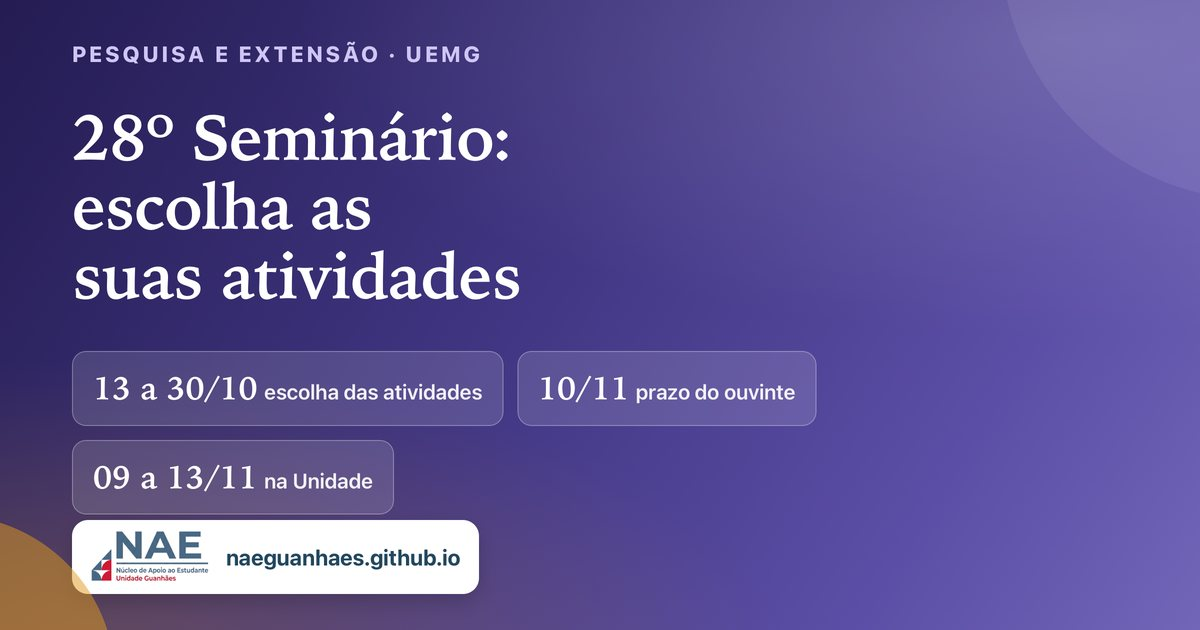
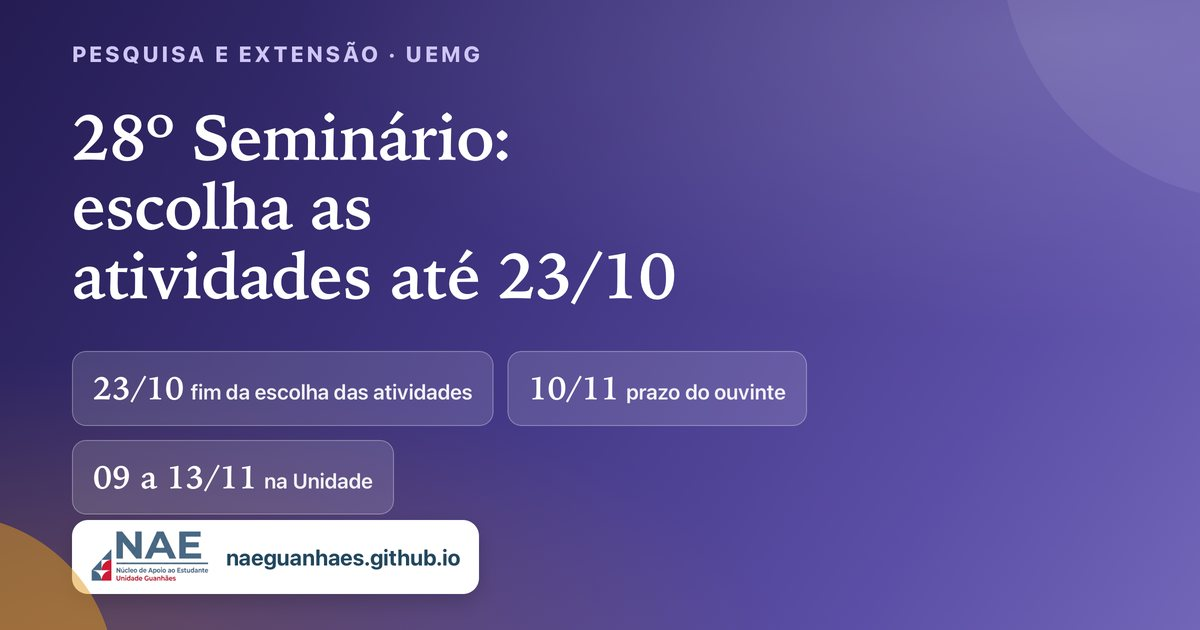
Seminário: escolha das atividades só até 23/10, pelo formulário de Guanhães; virada automática no dia 24

Changed region(s): [[0.0617, 0.3921, 0.5858, 0.4825], [0.0617, 0.5429, 0.6783, 0.6937]]

diff --git a/seminario.html b/seminario.html
@@ -4,15 +4,15 @@
 <meta charset="utf-8">
 <meta name="viewport" content="width=device-width, initial-scale=1">
 <title>28º Seminário de Pesquisa e Extensão · prazos | NAE Guanhães</title>
-<meta name="description" content="28º Seminário de Pesquisa e Extensão da UEMG, na Unidade Guanhães, de 09 a 13 de novembro de 2026. Escolha das atividades de 13 a 30 de outubro e inscrição como ouvinte até 10 de novembro.">
-<meta name="nae:revisar-em" content="2026-10-31 2026-11-11 2026-11-14">
+<meta name="description" content="28º Seminário de Pesquisa e Extensão da UEMG, na Unidade Guanhães, de 09 a 13 de novembro de 2026: prazos, inscrição como ouvinte, escolha das atividades e modelos de apresentação.">
+<meta name="nae:revisar-em" content="2026-11-11 2026-11-14">
 <meta property="og:type" content="website">
 <meta property="og:site_name" content="NAE Guanhães · Núcleo de Apoio ao Estudante">
 <meta property="og:locale" content="pt_BR">
 <meta property="og:title" content="28º Seminário de Pesquisa e Extensão · prazos | NAE Guanhães">
-<meta property="og:description" content="28º Seminário de Pesquisa e Extensão da UEMG, na Unidade Guanhães, de 09 a 13 de novembro de 2026. Escolha das atividades de 13 a 30 de outubro e inscrição como ouvinte até 10 de novembro.">
+<meta property="og:description" content="28º Seminário de Pesquisa e Extensão da UEMG, na Unidade Guanhães, de 09 a 13 de novembro de 2026: prazos, inscrição como ouvinte, escolha das atividades e modelos de apresentação.">
 <meta property="og:url" content="https://naeguanhaes.github.io/seminario.html">
-<meta property="og:image" content="https://naeguanhaes.github.io/assets/og/seminario.jpg">
+<meta property="og:image" content="https://naeguanhaes.github.io/assets/og/seminario.jpg?v=2">
 <meta property="og:image:width" content="1200">
 <meta property="og:image:height" content="630">
 <meta name="twitter:card" content="summary_large_image">
@@ -123,13 +123,15 @@ try{var f=localStorage.getItem("nae:fonte");if(f&&f!=="1")document.documentEleme
       <h1>28º Seminário de Pesquisa e Extensão</h1>
       <p>
         Na <b>Unidade Guanhães</b>, a programação acontece de
-        <b>09 a 13 de novembro de 2026</b>. A submissão de resumos já terminou; agora é
-        hora de <b>escolher as atividades</b>, de 13 a 30 de outubro, e de garantir a
-        <b>inscrição como ouvinte</b>, obrigatória para todos.
+        <b>09 a 13 de novembro de 2026</b>. A submissão de resumos já terminou<span data-ate="2026-10-23">; agora é
+        hora de <b>escolher as atividades</b>, só até 23 de outubro, e de garantir a
+        <b>inscrição como ouvinte</b>, obrigatória para todos.</span><span data-desde="2026-10-24"> e a
+        escolha das atividades também. Agora falta garantir a <b>inscrição como ouvinte</b>,
+        obrigatória para todos, até 10 de novembro.</span>
       </p>
       <div class="hero-selos">
         <span class="hero-selo"><b>09 a 13/11</b>na Unidade</span>
-        <span class="hero-selo"><b>13 a 30/10</b>escolha das atividades</span>
+        <span class="hero-selo" data-ate="2026-10-23"><b>até 23/10</b>escolha das atividades</span>
         <span class="hero-selo"><b>10/11</b>prazo do ouvinte</span>
       </div>
       <a class="hero-contagem" href="#prazos" id="sem-contagem">
@@ -185,7 +187,7 @@ try{var f=localStorage.getItem("nae:fonte");if(f&&f!=="1")document.documentEleme
         </tr>
         <tr>
           <td><b>Inscrição nas atividades</b></td>
-          <td><b>13/10 a 30/10</b></td>
+          <td>09/10 a <b>23/10</b><small data-desde="2026-10-24"><br><b>encerrada</b></small></td>
           <td>Quem quer participar das atividades da programação</td>
         </tr>
         <tr>
@@ -196,7 +198,8 @@ try{var f=localStorage.getItem("nae:fonte");if(f&&f!=="1")document.documentEleme
       </tbody>
     </table>
   </div>
-  <p class="dica-rolagem-tabela">O próximo prazo é o da inscrição nas atividades, de 13 a 30 de outubro.</p>
+  <p class="dica-rolagem-tabela" data-ate="2026-10-23">O próximo prazo é o da inscrição nas atividades, que vai só até 23 de outubro.</p>
+  <p class="dica-rolagem-tabela" data-desde="2026-10-24" data-ate="2026-11-10">O próximo prazo é o da inscrição como ouvinte, até 10 de novembro.</p>
 
   <div class="col stack-s">
     <div class="titulo-sec" style="--c: var(--turquesa)">
@@ -246,14 +249,31 @@ try{var f=localStorage.getItem("nae:fonte");if(f&&f!=="1")document.documentEleme
     </div>
     <div class="step">
       <span class="step-num">3</span>
-      <h3 class="step-title">Escolha as atividades, entre 13 e 30 de outubro</h3>
+      <h3 class="step-title"><span data-ate="2026-10-23">Escolha as atividades até 23 de outubro</span><span data-desde="2026-10-24">A escolha das atividades terminou em 23 de outubro</span></h3>
       <div class="step-body">
-        <p>
-          A inscrição nas atividades da programação acontece nesse período, pela
-          página de inscrições. Escolha com antecedência: as atividades preenchidas
-          podem não ter mais lugar.
+        <p data-desde="2026-10-24">
+          O formulário de inscrição nas atividades da programação de Guanhães fechou em
+          <b>23 de outubro</b>. Quem se inscreveu participa das atividades escolhidas na
+          semana do Seminário, desde que também tenha a inscrição como ouvinte.
         </p>
-        <div class="compartilhar"><button class="btn ghost" type="button" data-agenda style="--c: var(--lilas)" data-titulo="Escolha das atividades do 28º Seminário" data-inicio="2026-10-13" data-fim="2026-10-30" data-descricao="Período de inscrição nas atividades da programação do 28º Seminário de Pesquisa e Extensão." data-url="https://naeguanhaes.github.io/seminario.html"><svg width="18" height="18" viewBox="0 0 24 24" fill="none" stroke="currentColor" stroke-width="2" stroke-linecap="round" stroke-linejoin="round" aria-hidden="true"><rect x="3" y="5" width="18" height="16" rx="2"></rect><path d="M16 3v4M8 3v4M3 11h18M12 14v4M10 16h4"></path></svg> Adicionar à agenda</button></div>
+        <p data-ate="2026-10-23">
+          A inscrição nas atividades da programação de Guanhães é feita por um
+          formulário próprio, aberto até <b>23 de outubro</b>. No Instagram do
+          Seminário dá para ver quais docentes são responsáveis por cada atividade.
+        </p>
+        <div class="note alerta" data-ate="2026-10-23">
+          <p>
+            <b>Escolha só as que combinam com você</b> A organização pede que cada
+            estudante se inscreva nas atividades que mais se relacionam com os seus
+            interesses acadêmicos, e <b>não em todas</b>: inscrição em tudo atrapalha a
+            organização. E lembre: para participar da atividade, é preciso também ter
+            feito a <b>inscrição como ouvinte</b> no Seminário.
+          </p>
+        </div>
+        <div class="compartilhar" data-ate="2026-10-23">
+          <a class="btn" style="--c: var(--lilas)" href="https://docs.google.com/forms/d/e/1FAIpQLSfRoORC9C_8fj7DJU_-0DgQ3uF3NsIf-gr9UEIwBN14jTHJoQ/viewform" target="_blank" rel="noopener noreferrer">Inscrever-me nas atividades →</a>
+        </div>
+        <div class="compartilhar"><button class="btn ghost" type="button" data-agenda style="--c: var(--lilas)" data-titulo="Último dia para escolher as atividades do 28º Seminário" data-inicio="2026-10-23" data-descricao="Período de inscrição nas atividades da programação do 28º Seminário de Pesquisa e Extensão." data-url="https://naeguanhaes.github.io/seminario.html"><svg width="18" height="18" viewBox="0 0 24 24" fill="none" stroke="currentColor" stroke-width="2" stroke-linecap="round" stroke-linejoin="round" aria-hidden="true"><rect x="3" y="5" width="18" height="16" rx="2"></rect><path d="M16 3v4M8 3v4M3 11h18M12 14v4M10 16h4"></path></svg> Adicionar à agenda</button></div>
       </div>
     </div>
     <div class="step">
@@ -311,13 +331,13 @@ try{var f=localStorage.getItem("nae:fonte");if(f&&f!=="1")document.documentEleme
       atividades. Mandar no grupo da turma resolve os dois.
     </p>
     <div class="compartilhar">
-      <a class="btn" style="--c: var(--verde)" href="https://wa.me/?text=%2A28%C2%BA%20Semin%C3%A1rio%20de%20Pesquisa%20e%20Extens%C3%A3o%20da%20UEMG%2A%0A%0ANa%20Unidade%20Guanh%C3%A3es%2C%20de%2009%20a%2013%20de%20novembro%20de%202026.%0A%0A%E2%80%A2%20Escolha%20das%20atividades:%20de%2013%20a%2030%20de%20outubro%0A%E2%80%A2%20Inscri%C3%A7%C3%A3o%20como%20ouvinte:%20at%C3%A9%2010%20de%20novembro%2C%20obrigat%C3%B3ria%20para%20todos%0A%E2%80%A2%20A%20submiss%C3%A3o%20de%20resumos%20j%C3%A1%20terminou%0A%0A%2APrazos%20e%20passo%20a%20passo%20no%20site%20do%20NAE:%2A%0Ahttps://naeguanhaes.github.io/seminario.html%3Futm_source%3Dwhatsapp%26utm_campaign%3Dseminario" target="_blank" rel="noopener noreferrer">
+      <a class="btn" style="--c: var(--verde)" href="https://wa.me/?text=%2A28%C2%BA%20Semin%C3%A1rio%20de%20Pesquisa%20e%20Extens%C3%A3o%20da%20UEMG%2A%0A%0ANa%20Unidade%20Guanh%C3%A3es%2C%20de%2009%20a%2013%20de%20novembro%20de%202026.%0A%0A%E2%80%A2%20Inscri%C3%A7%C3%A3o%20nas%20atividades:%20s%C3%B3%20at%C3%A9%2023%20de%20outubro.%20Escolha%20as%20que%20mais%20combinam%20com%20os%20seus%20interesses%2C%20n%C3%A3o%20todas%0A%E2%80%A2%20Para%20participar%20da%20atividade%2C%20%C3%A9%20preciso%20ter%20tamb%C3%A9m%20a%20inscri%C3%A7%C3%A3o%20como%20ouvinte%2C%20at%C3%A9%2010%20de%20novembro%0A%E2%80%A2%20Os%20docentes%20de%20cada%20atividade%20est%C3%A3o%20no%20Instagram%20do%20Semin%C3%A1rio%0A%0A%2AFormul%C3%A1rio%2C%20prazos%20e%20passo%20a%20passo%20no%20site%20do%20NAE:%2A%0Ahttps://naeguanhaes.github.io/seminario.html%3Futm_source%3Dwhatsapp%26utm_campaign%3Dseminario" target="_blank" rel="noopener noreferrer">
         <svg width="18" height="18" viewBox="0 0 24 24" fill="currentColor" aria-hidden="true"><path d="M17.5 14.4c-.3-.2-1.7-.9-2-1-.3-.1-.5-.1-.7.1-.2.3-.7 1-.9 1.2-.2.2-.3.2-.6.1-.3-.2-1.2-.5-2.3-1.4-.9-.8-1.4-1.7-1.6-2-.2-.3 0-.5.1-.6l.5-.5c.1-.2.2-.3.3-.5 0-.2 0-.4 0-.5 0-.2-.7-1.6-.9-2.2-.2-.6-.5-.5-.7-.5h-.6c-.2 0-.5.1-.8.4-.3.3-1 1-1 2.5s1.1 2.9 1.2 3.1c.1.2 2.1 3.2 5 4.4.7.3 1.2.5 1.7.6.7.2 1.3.2 1.8.1.6-.1 1.7-.7 1.9-1.4.2-.7.2-1.3.2-1.4-.1-.1-.3-.2-.6-.3z"></path><path d="M12 2a10 10 0 00-8.6 15.1L2 22l5-1.3A10 10 0 1012 2zm0 18.2c-1.6 0-3.1-.4-4.4-1.2l-.3-.2-3 .8.8-2.9-.2-.3A8.2 8.2 0 1112 20.2z"></path></svg>
         Compartilhar no WhatsApp
       </a>
       <a class="btn ghost" data-compartilhar style="--c: var(--verde)"
          data-titulo="28º Seminário de Pesquisa e Extensão · UEMG Guanhães"
-         data-texto="28º Seminário de Pesquisa e Extensão da UEMG, em Guanhães, de 09 a 13 de novembro. Escolha das atividades de 13 a 30/10 e inscrição como ouvinte até 10/11:">Outras formas de compartilhar</a>
+         data-texto="28º Seminário de Pesquisa e Extensão da UEMG, em Guanhães, de 09 a 13 de novembro. Escolha das atividades até 23/10 e inscrição como ouvinte até 10/11:">Outras formas de compartilhar</a>
     </div>
   </div>
 
@@ -358,11 +378,8 @@ document.addEventListener('DOMContentLoaded', function () {
     return (n === 1 ? 'Falta 1 dia ' : 'Faltam ' + n + ' dias ') + oque;
   }
   var n;
-  if (hoje < '2026-10-13') {
-    txt.textContent = dias('2026-10-13') === 1 ? 'A escolha das atividades abre amanhã' : 'A escolha das atividades abre em 13/10';
-    n = -1;   /* abertura não é urgência: o selo só fica vermelho perto de prazo final */
-  } else if (hoje <= '2026-10-30') {
-    n = dias('2026-10-30');
+  if (hoje <= '2026-10-23') {
+    n = dias('2026-10-23');
     txt.textContent = faltam(n, 'para escolher as atividades');
   } else if (hoje < '2026-11-09') {
     n = dias('2026-11-10');

diff --git a/assets/dados-editais.js b/assets/dados-editais.js
@@ -309,26 +309,27 @@ window.DADOS_EDITAIS = {
     {
       titulo: '28º Seminário de Pesquisa e Extensão · escolha das atividades',
       grupo: 'seminario-28',
-      resumo: 'Inscrição nas atividades da programação de Guanhães, pela página de inscrições do Seminário. Quem ainda não fez a inscrição como ouvinte precisa fazer também.',
+      resumo: 'Inscrição nas atividades da programação de Guanhães, por formulário próprio, até 23/10. Escolha só as que combinam com os seus interesses. Quem ainda não fez a inscrição como ouvinte precisa fazer também.',
       tipo: 'pesquisa',
-      abre: '2026-10-13',
-      encerra: '2026-10-30',
+      abre: '2026-10-09',
+      encerra: '2026-10-23',
       link: 'seminario.html',
-      publicado: '2026-10-09',
+      publicado: '2026-10-21',
 
       destaque: {
         tema: 'roxo',
         eyebrow: 'Pesquisa e extensão · UEMG',
-        titulo: '28º Seminário: escolha as suas atividades',
-        texto: 'De <b>13 a 30 de outubro</b>, a página de inscrições abre a escolha das atividades da programação em Guanhães, de 09 a 13 de novembro. A inscrição <b>como ouvinte</b> continua obrigatória para todos.',
+        titulo: '28º Seminário: escolha as atividades até 23/10',
+        texto: 'A inscrição nas atividades da programação de Guanhães vai <b>só até 23 de outubro</b>. Escolha as que mais combinam com os seus interesses, não todas, e lembre: é preciso também a inscrição <b>como ouvinte</b>.',
         numeros: [
-          { n: '13 a 30/10', r: 'escolha das atividades' },
+          { n: '23/10', r: 'fim da escolha das atividades' },
           { n: '10/11', r: 'prazo do ouvinte' },
           { n: '09 a 13/11', r: 'na Unidade' }
         ],
-        acao: 'Ver o passo a passo',
-        extraTexto: 'Página de inscrições',
-        extraLink: 'https://www.uemg.br/28ed-seminario-pe-inscricao'
+        acao: 'Inscrever-me nas atividades',
+        acaoLink: 'https://docs.google.com/forms/d/e/1FAIpQLSfRoORC9C_8fj7DJU_-0DgQ3uF3NsIf-gr9UEIwBN14jTHJoQ/viewform',
+        extraTexto: 'Compartilhar no WhatsApp',
+        extraLink: 'https://wa.me/?text=%2A28%C2%BA%20Semin%C3%A1rio%20de%20Pesquisa%20e%20Extens%C3%A3o%20da%20UEMG%2A%0A%0ANa%20Unidade%20Guanh%C3%A3es%2C%20de%2009%20a%2013%20de%20novembro%20de%202026.%0A%0A%E2%80%A2%20Inscri%C3%A7%C3%A3o%20nas%20atividades:%20s%C3%B3%20at%C3%A9%2023%20de%20outubro.%20Escolha%20as%20que%20mais%20combinam%20com%20os%20seus%20interesses%2C%20n%C3%A3o%20todas%0A%E2%80%A2%20Para%20participar%20da%20atividade%2C%20%C3%A9%20preciso%20ter%20tamb%C3%A9m%20a%20inscri%C3%A7%C3%A3o%20como%20ouvinte%2C%20at%C3%A9%2010%20de%20novembro%0A%E2%80%A2%20Os%20docentes%20de%20cada%20atividade%20est%C3%A3o%20no%20Instagram%20do%20Semin%C3%A1rio%0A%0A%2AFormul%C3%A1rio%2C%20prazos%20e%20passo%20a%20passo%20no%20site%20do%20NAE:%2A%0Ahttps://naeguanhaes.github.io/seminario.html%3Futm_source%3Dwhatsapp%26utm_campaign%3Dseminario'
       }
     },
     {

diff --git a/assets/dados-novidades.js b/assets/dados-novidades.js
@@ -19,6 +19,13 @@ window.DADOS_NOVIDADES = {
   itens: [
     {
       data: '2026-10-21',
+      titulo: '28º Seminário: atividades só até 23/10',
+      texto: 'A inscrição nas atividades da programação de Guanhães vai até 23 de outubro, pelo formulário da Unidade. Escolha as que mais combinam com você e não esqueça a inscrição como ouvinte.',
+      link: 'seminario.html',
+      textoLink: 'abrir o formulário'
+    },
+    {
+      data: '2026-10-21',
       titulo: '28º Seminário: logos e modelos de apresentação',
       texto: 'Quem vai apresentar trabalho já encontra o pacote de logotipos de 2026 e os modelos oficiais de apresentação oral e de banner.',
       link: 'seminario.html',

diff --git a/assets/dados-avisos.js b/assets/dados-avisos.js
@@ -30,6 +30,14 @@ window.DADOS_AVISOS = {
   atualizadoEm: '2026-10-21',
   avisos: [
     {
+      tipo: 'atencao',
+      de: '2026-10-21',
+      ate: '2026-10-23',
+      texto: '28º Seminário: a inscrição nas atividades vai só até 23/10, por formulário. Escolha as que combinam com você, não todas, e faça também a inscrição como ouvinte.',
+      link: 'seminario.html',
+      textoLink: 'ver o passo a passo'
+    },
+    {
       tipo: 'novidade',
       de: '2026-10-21',
       ate: '2026-11-13',

diff --git a/sw.js b/sw.js
@@ -5,7 +5,7 @@
    isso apaga o cache antigo e busca tudo de novo.
    ═══════════════════════════════════════════════════════ */
 
-var VERSAO = 'nae-v96';
+var VERSAO = 'nae-v97';
 
 /* Páginas que de propósito NÃO entram no cache do aparelho do aluno:
    ficam no ar e são baixadas só quando alguém abre. O arquivo do que
